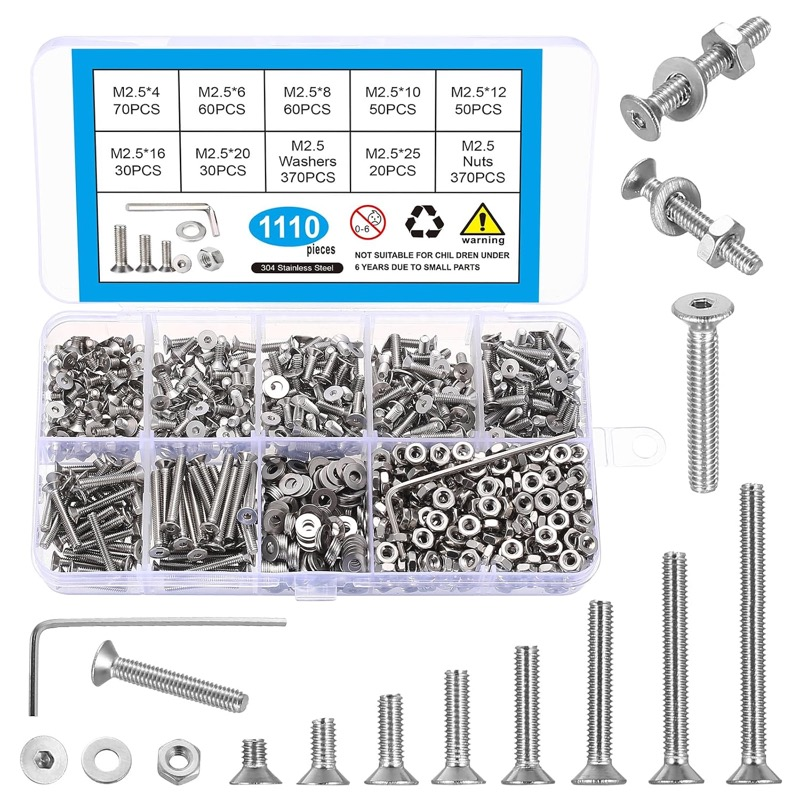
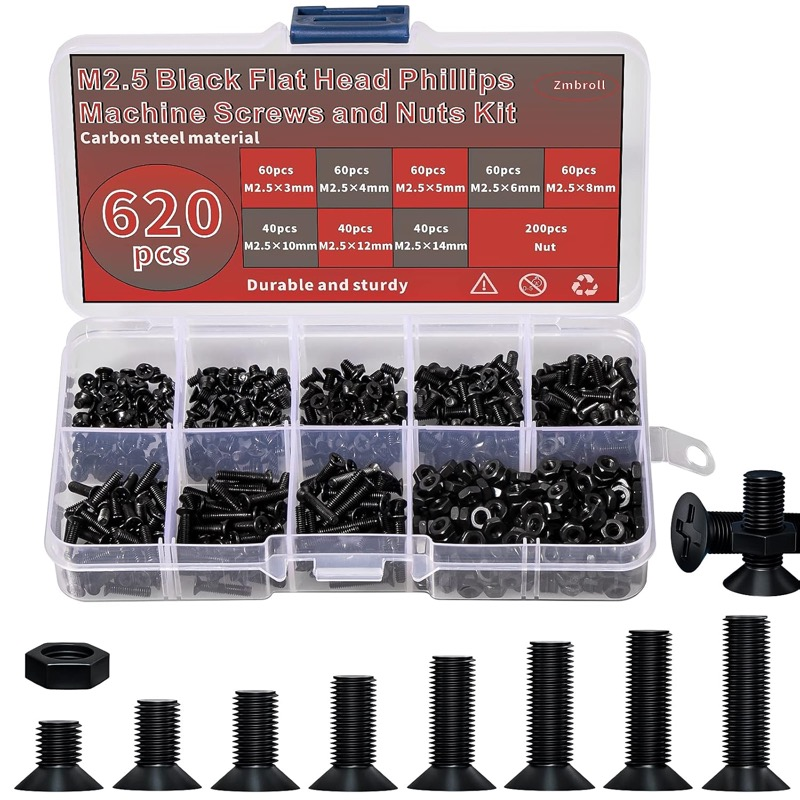
Build page: new listings, real prices, and the Osprey instead of a placeholder
Swaps requested 2026-09-04. The NanoPi moves to the free-shipping listing, the screws to a
620-piece M2.5 kit, and the magnet ring to the single-pack listing.

The antenna row was a tri-band pair I picked arbitrarily. It is now the Osprey LHCP, which
is the one actually measured in the shootout and the pocket-scanner pick, with its
trade-off stated plainly: it is a 5.6-6.0 GHz FPV antenna, not a tri-band whip, so it gives
up some 2.4 GHz and the top of 6 GHz.

Adds a cost section with per-part prices read from the listings today, and totals for the
two builds: roughly -135 with internal antennas, -165 with external. The spread is
mostly the SD card.

Every external link now opens in a new tab; internal page links deliberately do not.

diff --git a/build.html b/build.html
@@ -678,7 +678,6 @@ footer {
 
 <nav class="wcnav" aria-label="Site"><div class="wcnav-in"><a class="wcnav-brand" href="./">WLAN Commander <span>sensor</span></a><div class="wcnav-links"><a href="./">Image</a><a href="build.html" aria-current="page">Build</a><a href="antennas.html">Antennas</a></div></div></nav>
 
-
 <header class="masthead">
   <div class="shell">
     <div class="masthead-grid">
@@ -725,7 +724,7 @@ footer {
           <img class="part-thumb" src="images/nanopi-zero2.jpg" alt="NanoPi Zero2" loading="lazy" width="72" height="72">
           <span class="sum-text">
             <span class="sum-title">NanoPi Zero2</span>
-            <span class="sum-line">2 GB, no eMMC, with case</span>
+            <span class="sum-line">2 GB, no eMMC, with case &middot; $49.99, free shipping</span>
           </span>
           <span class="chip chip-ok">Required</span>
           <span class="sum-chev" aria-hidden="true">+</span>
@@ -734,8 +733,8 @@ footer {
           <div class="part-photo"><img src="images/nanopi-zero2.jpg" alt="NanoPi Zero2" loading="lazy"></div>
           <div class="part-body">
             <p class="part-note">Buy the <strong>2 GB, no eMMC, with case</strong> option. Skip the bundled Wi-Fi card and SD card: the card that ships with it is not a BE200, and you will supply your own SD.</p>
-            <dl class="spec"><div><dt>SoC</dt><dd>Rockchip RK3528A, quad-core Cortex-A53</dd></div><div><dt>Memory</dt><dd>2 GB LPDDR4X (1 GB variant also sold)</dd></div><div><dt>Expansion</dt><dd>M.2 Key E slot, PCIe</dd></div><div><dt>Network</dt><dd>Gigabit Ethernet, Realtek RTL8211F PHY</dd></div><div><dt>Power / data</dt><dd>USB-C</dd></div><div><dt>Console</dt><dd>UART header, 3.3 V, 1,500,000 baud</dd></div><div><dt>Source</dt><dd>FriendlyElec &middot; Amazon <a class="mono" href="https://www.amazon.com/dp/B0DHLF6WL5">B0DHLF6WL5</a></dd></div></dl>
-            <p class="part-links"><a href="https://www.amazon.com/dp/B0DHLF6WL5">Amazon</a> &middot; <a href="https://www.friendlyelec.com/index.php?route=product/product&amp;product_id=304">FriendlyElec</a> &middot; <a href="https://wiki.friendlyelec.com/wiki/index.php/NanoPi_Zero2">Wiki</a></p>
+            <dl class="spec"><div><dt>SoC</dt><dd>Rockchip RK3528A, quad-core Cortex-A53</dd></div><div><dt>Memory</dt><dd>2 GB LPDDR4X (1 GB variant also sold)</dd></div><div><dt>Expansion</dt><dd>M.2 Key E slot, PCIe</dd></div><div><dt>Network</dt><dd>Gigabit Ethernet, Realtek RTL8211F PHY</dd></div><div><dt>Power / data</dt><dd>USB-C</dd></div><div><dt>Console</dt><dd>UART header, 3.3 V, 1,500,000 baud</dd></div><div><dt>Price</dt><dd>$49.99, free shipping</dd></div><div><dt>Source</dt><dd>FriendlyElec &middot; Amazon <a class="mono" href="https://www.amazon.com/dp/B0DHLC9SJ3" target="_blank" rel="noopener noreferrer">B0DHLC9SJ3</a></dd></div></dl>
+            <p class="part-links"><a href="https://www.amazon.com/dp/B0DHLC9SJ3" target="_blank" rel="noopener noreferrer">Amazon</a> &middot; <a href="https://www.friendlyelec.com/index.php?route=product/product&amp;product_id=304" target="_blank" rel="noopener noreferrer">FriendlyElec</a> &middot; <a href="https://wiki.friendlyelec.com/wiki/index.php/NanoPi_Zero2" target="_blank" rel="noopener noreferrer">Wiki</a></p>
           </div>
         </div>
       </details>
@@ -753,8 +752,8 @@ footer {
           <div class="part-photo"><img src="images/intel-be200.jpg" alt="Intel BE200, non-vPro" loading="lazy"></div>
           <div class="part-body">
             <p class="part-note">The part number matters. See <a href="#be200">Get the BE200 variant right</a> before ordering &mdash; the label on the card itself reads <span class="mono">BE200NGW</span> either way, so a photo cannot tell you which variant is in the box.</p>
-            <dl class="spec"><div><dt>Intel part</dt><dd><span class="mono strong">282726</span></dd></div><div><dt>Model</dt><dd><span class="mono strong">BE200.NGWG.NV</span></dd></div><div><dt>Variant</dt><dd><strong>Non-vPro</strong>, listed as &ldquo;No vPro&rdquo;</dd></div><div><dt>Form factor</dt><dd>M.2 2230, Key E</dd></div><div><dt>Radio</dt><dd>Wi-Fi 7, 2&times;2, tri-band, plus Bluetooth</dd></div><div><dt>Max width</dt><dd>160 MHz on 5 and 6 GHz</dd></div><div><dt>Driver</dt><dd><span class="mono">iwlmld</span>, firmware core 106</dd></div><div><dt>Source</dt><dd>Amazon <a class="mono" href="https://www.amazon.com/dp/B0DFKF4T56">B0DFKF4T56</a></dd></div></dl>
-            <p class="part-links"><a href="https://www.amazon.com/dp/B0DFKF4T56">Amazon</a></p>
+            <dl class="spec"><div><dt>Intel part</dt><dd><span class="mono strong">282726</span></dd></div><div><dt>Model</dt><dd><span class="mono strong">BE200.NGWG.NV</span></dd></div><div><dt>Variant</dt><dd><strong>Non-vPro</strong>, listed as &ldquo;No vPro&rdquo;</dd></div><div><dt>Form factor</dt><dd>M.2 2230, Key E</dd></div><div><dt>Radio</dt><dd>Wi-Fi 7, 2&times;2, tri-band, plus Bluetooth</dd></div><div><dt>Max width</dt><dd>160 MHz on 5 and 6 GHz</dd></div><div><dt>Driver</dt><dd><span class="mono">iwlmld</span>, firmware core 106</dd></div><div><dt>Price</dt><dd>$23.39</dd></div><div><dt>Source</dt><dd>Amazon <a class="mono" href="https://www.amazon.com/dp/B0DFKF4T56" target="_blank" rel="noopener noreferrer">B0DFKF4T56</a></dd></div></dl>
+            <p class="part-links"><a href="https://www.amazon.com/dp/B0DFKF4T56" target="_blank" rel="noopener noreferrer">Amazon</a></p>
           </div>
         </div>
       </details>
@@ -772,27 +771,35 @@ footer {
           <div class="part-photo"><img src="images/mhf4-pigtail.jpg" alt="MHF4 to RP-SMA pigtails" loading="lazy"></div>
           <div class="part-body">
             <p class="part-note">Two needed, sold in fours. These carry the signal from the card&rsquo;s tiny MHF4 sockets out to the case.</p>
-            <dl class="spec"><div><dt>Ends</dt><dd>MHF4 (U.FL) to <strong>RP-SMA female</strong></dd></div><div><dt>Length</dt><dd>15 cm / 5.9 in</dd></div><div><dt>Impedance</dt><dd>50 &Omega;</dd></div><div><dt>Quantity</dt><dd>4 per pack</dd></div><div><dt>Fits</dt><dd>M.2 NGFF cards. <strong>Not</strong> Mini PCIe</dd></div><div><dt>Source</dt><dd>Amazon <a class="mono" href="https://www.amazon.com/dp/B07S2LYC1F">B07S2LYC1F</a></dd></div></dl>
-            <p class="part-links"><a href="https://www.amazon.com/dp/B07S2LYC1F">Amazon</a></p>
+            <dl class="spec"><div><dt>Ends</dt><dd>MHF4 (U.FL) to <strong>RP-SMA female</strong></dd></div><div><dt>Length</dt><dd>15 cm / 5.9 in</dd></div><div><dt>Impedance</dt><dd>50 &Omega;</dd></div><div><dt>Quantity</dt><dd>4 per pack</dd></div><div><dt>Fits</dt><dd>M.2 NGFF cards. <strong>Not</strong> Mini PCIe</dd></div><div><dt>Price</dt><dd>$9.99 for four</dd></div><div><dt>Source</dt><dd>Amazon <a class="mono" href="https://www.amazon.com/dp/B07S2LYC1F" target="_blank" rel="noopener noreferrer">B07S2LYC1F</a></dd></div></dl>
+            <p class="part-links"><a href="https://www.amazon.com/dp/B07S2LYC1F" target="_blank" rel="noopener noreferrer">Amazon</a></p>
           </div>
         </div>
       </details>
       <details class="part">
         <summary>
-          <img class="part-thumb" src="images/antenna.jpg" alt="Tri-band antennas, RP-SMA male" loading="lazy" width="72" height="72">
+          <img class="part-thumb" src="images/antenna.jpg" alt="Osprey LHCP antenna" loading="lazy" width="72" height="72">
           <span class="sum-text">
-            <span class="sum-title">Tri-band antennas, RP-SMA male</span>
-            <span class="sum-line">6 GHz capable &middot; eight measured, see the shootout</span>
+            <span class="sum-title">Osprey LHCP antennas</span>
+            <span class="sum-line">RP-SMA &middot; the pocket-scanner pick &middot; $19.88 for two</span>
           </span>
           <span class="chip chip-ok">Required</span>
           <span class="sum-chev" aria-hidden="true">+</span>
         </summary>
         <div class="part-detail">
-          <div class="part-photo"><img src="images/antenna.jpg" alt="Tri-band antennas, RP-SMA male" loading="lazy"></div>
+          <div class="part-photo"><img src="images/antenna.jpg" alt="Osprey LHCP antenna" loading="lazy"></div>
           <div class="part-body">
-            <p class="part-note">Two. They must cover 6 GHz and they must be <strong>RP-SMA male</strong>. Read <a href="#connector">the connector trap</a> first: this is the part of the build that has already cost us a week of bad measurements. We measured eight of them across all three bands &mdash; see the <a href="antennas.html">antenna shootout</a> before picking.</p>
-            <dl class="spec"><div><dt>Connector</dt><dd><strong>RP-SMA male</strong>, centre socket</dd></div><div><dt>Bands</dt><dd>2.4, 5 and 6 GHz (5925&ndash;7125 MHz)</dd></div><div><dt>If it lives in a pocket</dt><dd><strong>Osprey LHCP</strong> &mdash; most compact tested, and circular polarisation costs nothing on throughput</dd></div><div><dt>If it lives on a desk</dt><dd><strong>5&Prime; Oscium</strong> &mdash; best average across all three bands, no weak band</dd></div><div><dt>2.4 GHz winner</dt><dd>7&Prime; Ducky, &minus;18.0 dBm avg</dd></div><div><dt>5 GHz winner</dt><dd>Dixingtek 2&Prime;, &minus;26.7 dBm avg</dd></div><div><dt>6 GHz winner</dt><dd>7&Prime; Ducky, &minus;21.7 dBm avg</dd></div><div><dt>Gain</dt><dd>5 dBi is plenty; high gain narrows coverage</dd></div></dl>
-            <p class="part-links"><a href="https://www.amazon.com/Antenna-Tri-Band-Omnidirectional-Antennas-Desktop/dp/B0CJDWDNL1">Tri-band 5 dBi pair</a> &middot; <a href="antennas.html">Antenna shootout &rarr;</a></p>
+            <p class="part-note">Two, and this is the one we actually measured rather than guessed at.
+            Across <a href="antennas.html">eight antennas swept on all three bands</a> the Osprey was
+            the most compact tested, and circular polarisation cost nothing on throughput &mdash; it
+            even out-ran the larger Dixingtek on 5 GHz. Read <a href="#connector">the connector
+            trap</a> before ordering any alternative.</p>
+            <p class="part-note"><strong>Know what you are trading.</strong> This is a 5.8 GHz FPV
+            antenna, roughly 5.6&ndash;6.0 GHz, not a tri-band whip. It gives up some 2.4 GHz and it is
+            not tuned for the top of 6 GHz. That is the price of something that genuinely pockets; if
+            the sensor lives on a desk, the 5&Prime; Oscium was the stronger all-rounder.</p>
+            <dl class="spec"><div><dt>Connector</dt><dd><strong>RP-SMA</strong>, mates with the pigtails above</dd></div><div><dt>Polarisation</dt><dd>LHCP, circular</dd></div><div><dt>Band</dt><dd>5.6&ndash;6.0 GHz</dd></div><div><dt>Gain</dt><dd>2.82 dBi</dd></div><div><dt>Size</dt><dd>Stubby, 14.1 mm diameter &times; 14 mm</dd></div><div><dt>Quantity</dt><dd>2 per pack</dd></div><div><dt>Price</dt><dd>$19.88</dd></div><div><dt>Source</dt><dd>Amazon <a class="mono" href="https://www.amazon.com/dp/B0BM99SJCP" target="_blank" rel="noopener noreferrer">B0BM99SJCP</a></dd></div></dl>
+            <p class="part-links"><a href="https://www.amazon.com/dp/B0BM99SJCP" target="_blank" rel="noopener noreferrer">Amazon</a> &middot; <a href="antennas.html">How it compared &rarr;</a></p>
           </div>
         </div>
       </details>
@@ -801,7 +808,7 @@ footer {
           <img class="part-thumb" src="images/screws.jpg" alt="M2.5 screw assortment" loading="lazy" width="72" height="72">
           <span class="sum-text">
             <span class="sum-title">M2.5 screw assortment</span>
-            <span class="sum-line">M.2 retaining screw is M2.5</span>
+            <span class="sum-line">M.2 retaining screw is M2.5 &middot; $9.99</span>
           </span>
           <span class="chip chip-ok">Required</span>
           <span class="sum-chev" aria-hidden="true">+</span>
@@ -812,8 +819,8 @@ footer {
             <p class="part-note">The M.2 card is held down by a single small screw, and the M.2
             standard specifies <strong>M2.5</strong>. An assortment is worth having because that screw
             is easy to lose and impossible to improvise.</p>
-            <dl class="spec"><div><dt>Thread</dt><dd><strong>M2.5</strong>, the M.2 retaining size</dd></div><div><dt>Material</dt><dd>304 stainless steel</dd></div><div><dt>Head</dt><dd>Countersunk, hex socket</dd></div><div><dt>Contents</dt><dd>1110 pieces, with nuts, washers and a hex key</dd></div><div><dt>Source</dt><dd>Amazon <a class="mono" href="https://www.amazon.com/dp/B0GFDJNTRX">B0GFDJNTRX</a></dd></div></dl>
-            <p class="part-links"><a href="https://www.amazon.com/dp/B0GFDJNTRX">Amazon</a></p>
+            <dl class="spec"><div><dt>Thread</dt><dd><strong>M2.5</strong>, the M.2 retaining size</dd></div><div><dt>Sizes</dt><dd>M2.5 &times; 3/4/5/6/8/10/12/16/20 mm</dd></div><div><dt>Head</dt><dd>Flat head, Phillips</dd></div><div><dt>Contents</dt><dd>620 pieces, flat head Phillips, with nuts and washers</dd></div><div><dt>Price</dt><dd>$9.99</dd></div><div><dt>Source</dt><dd>Amazon <a class="mono" href="https://www.amazon.com/dp/B0B3J58MMW" target="_blank" rel="noopener noreferrer">B0B3J58MMW</a></dd></div></dl>
+            <p class="part-links"><a href="https://www.amazon.com/dp/B0B3J58MMW" target="_blank" rel="noopener noreferrer">Amazon</a></p>
           </div>
         </div>
       </details>
@@ -831,8 +838,8 @@ footer {
           <div class="part-photo"><img src="images/sdcard.jpg" alt="microSD card" loading="lazy"></div>
           <div class="part-body">
             <p class="part-note">Any size from 8 GB up. The image expands to fill the card on first boot, so buy for capture headroom, not for the image. Buy A2 and V30 for headroom, and see <a href="#sdcard">what a running sensor actually uses</a> for the measurements.</p>
-            <dl class="spec"><div><dt>Minimum</dt><dd>A2 and V30, so 30 MB/s sustained write</dd></div><div><dt>Known good</dt><dd>SanDisk Extreme microSDXC &mdash; C10, U3, V30, A2 <a class="mono" href="https://www.amazon.com/dp/B07FCMKK5X">B07FCMKK5X</a></dd></div><div><dt>Size</dt><dd>32&ndash;64 GB is a sensible middle</dd></div><div><dt>Endurance</dt><dd>&ldquo;High endurance&rdquo; is a nice-to-have, not required</dd></div><div><dt>Before trusting it</dt><dd>Benchmark the write speed. A card can read perfectly and write at a crawl</dd></div><div><dt>Note</dt><dd>The cheaper SanDisk <em>Ultra</em> line is A1/U1. The stock card in our build managed 12 MB/s regardless</dd></div></dl>
-            <p class="part-links"><a href="https://www.amazon.com/dp/B07FCMKK5X">SanDisk Extreme on Amazon</a></p>
+            <dl class="spec"><div><dt>Minimum</dt><dd>A2 and V30, so 30 MB/s sustained write</dd></div><div><dt>Known good</dt><dd>SanDisk Extreme microSDXC &mdash; C10, U3, V30, A2 <a class="mono" href="https://www.amazon.com/dp/B07FCMKK5X" target="_blank" rel="noopener noreferrer">B07FCMKK5X</a></dd></div><div><dt>Price</dt><dd>$12 for 32 GB up to $44.59 for the 128 GB Extreme</dd></div><div><dt>Size</dt><dd>32&ndash;64 GB is a sensible middle</dd></div><div><dt>Endurance</dt><dd>&ldquo;High endurance&rdquo; is a nice-to-have, not required</dd></div><div><dt>Before trusting it</dt><dd>Benchmark the write speed. A card can read perfectly and write at a crawl</dd></div><div><dt>Note</dt><dd>The cheaper SanDisk <em>Ultra</em> line is A1/U1. The stock card in our build managed 12 MB/s regardless</dd></div></dl>
+            <p class="part-links"><a href="https://www.amazon.com/dp/B07FCMKK5X" target="_blank" rel="noopener noreferrer">SanDisk Extreme on Amazon</a></p>
           </div>
         </div>
       </details>
@@ -861,8 +868,8 @@ footer {
           <div class="part-photo"><img src="images/thermal-pad.jpg" alt="0.5 mm thermal pad" loading="lazy"></div>
           <div class="part-body">
             <p class="part-note">The case already ships with a pad, so this is not something the build needs to work &mdash; the stock one is just thin and cheap. Orb is firm that <em>a</em> pad is required: &ldquo;the card needs the pad to transfer heat to the case and run reliably.&rdquo; Replacing it with a decent 0.5 mm pad is a cheap upgrade, and it matters more here than on most boards because mainline has no thermal zone for this SoC, so nothing throttles on your behalf.</p>
-            <dl class="spec"><div><dt>Product</dt><dd>ARCTIC TP-3</dd></div><div><dt>Thickness</dt><dd><strong>0.5 mm</strong>, matching the stock pad</dd></div><div><dt>Sheet</dt><dd>120 &times; 20 mm, 4 per pack</dd></div><div><dt>Do not go thicker</dt><dd>Too thick stops the case closing flat and makes contact worse</dd></div><div><dt>Source</dt><dd>Amazon <a class="mono" href="https://www.amazon.com/dp/B09V518BXM">B09V518BXM</a></dd></div></dl>
-            <p class="part-links"><a href="https://www.amazon.com/dp/B09V518BXM">Amazon</a></p>
+            <dl class="spec"><div><dt>Product</dt><dd>ARCTIC TP-3</dd></div><div><dt>Thickness</dt><dd><strong>0.5 mm</strong>, matching the stock pad</dd></div><div><dt>Sheet</dt><dd>120 &times; 20 mm, 4 per pack</dd></div><div><dt>Do not go thicker</dt><dd>Too thick stops the case closing flat and makes contact worse</dd></div><div><dt>Price</dt><dd>$7.49</dd></div><div><dt>Source</dt><dd>Amazon <a class="mono" href="https://www.amazon.com/dp/B09V518BXM" target="_blank" rel="noopener noreferrer">B09V518BXM</a></dd></div></dl>
+            <p class="part-links"><a href="https://www.amazon.com/dp/B09V518BXM" target="_blank" rel="noopener noreferrer">Amazon</a></p>
           </div>
         </div>
       </details>
@@ -880,8 +887,8 @@ footer {
           <div class="part-photo"><img src="images/usbc-cable.jpg" alt="Short right-angle USB-C cable" loading="lazy"></div>
           <div class="part-body">
             <p class="part-note">Powers the sensor and carries the network link at the same time. Plug it into a laptop or phone and the sensor appears at <span class="mono">198.18.42.1</span> with no ethernet involved. The right angle keeps it from levering on the port in a bag.</p>
-            <dl class="spec"><div><dt>Product</dt><dd>JUXINICE 90&deg; USB-C male to male</dd></div><div><dt>Length</dt><dd>10 cm / 4 in, flat and pliable</dd></div><div><dt>Quantity</dt><dd>2 per pack</dd></div><div><dt>Source</dt><dd>Amazon <a class="mono" href="https://www.amazon.com/dp/B0CSW84W7J">B0CSW84W7J</a></dd></div></dl>
-            <p class="part-links"><a href="https://www.amazon.com/dp/B0CSW84W7J">Amazon</a></p>
+            <dl class="spec"><div><dt>Product</dt><dd>JUXINICE 90&deg; USB-C male to male</dd></div><div><dt>Length</dt><dd>10 cm / 4 in, flat and pliable</dd></div><div><dt>Quantity</dt><dd>2 per pack</dd></div><div><dt>Price</dt><dd>$9.99 for two</dd></div><div><dt>Source</dt><dd>Amazon <a class="mono" href="https://www.amazon.com/dp/B0CSW84W7J" target="_blank" rel="noopener noreferrer">B0CSW84W7J</a></dd></div></dl>
+            <p class="part-links"><a href="https://www.amazon.com/dp/B0CSW84W7J" target="_blank" rel="noopener noreferrer">Amazon</a></p>
           </div>
         </div>
       </details>
@@ -890,7 +897,7 @@ footer {
           <img class="part-thumb" src="images/magnet-ring.jpg" alt="MagSafe magnet rings" loading="lazy" width="72" height="72">
           <span class="sum-text">
             <span class="sum-title">MagSafe magnet rings</span>
-            <span class="sum-line">53.9 mm outer &middot; 2.6 mm thick</span>
+            <span class="sum-line">53.9 mm outer &middot; 2.6 mm thick &middot; $7.99</span>
           </span>
           <span class="chip chip-untested">Optional</span>
           <span class="sum-chev" aria-hidden="true">+</span>
@@ -899,8 +906,8 @@ footer {
           <div class="part-photo"><img src="images/magnet-ring.jpg" alt="MagSafe magnet rings" loading="lazy"></div>
           <div class="part-body">
             <p class="part-note">For sticking the finished sensor to something steel, or to a 3D-printed mount. Sold for DIY and print-in projects rather than as a phone accessory.</p>
-            <dl class="spec"><div><dt>Type</dt><dd>Magnet ring, MagSafe-compatible</dd></div><div><dt>Outer &oslash;</dt><dd>53.9 mm / 2.12 in</dd></div><div><dt>Inner &oslash;</dt><dd>45.8 mm / 1.80 in</dd></div><div><dt>Thickness</dt><dd>2.6 mm / 0.10 in</dd></div><div><dt>Quantity</dt><dd>2 per pack</dd></div><div><dt>Intended use</dt><dd>DIY and 3D printing, accessory side</dd></div><div><dt>Source</dt><dd>Amazon <a class="mono" href="https://www.amazon.com/dp/B0GYSGWTKV">B0GYSGWTKV</a></dd></div></dl>
-            <p class="part-links"><a href="https://www.amazon.com/dp/B0GYSGWTKV">Amazon</a></p>
+            <dl class="spec"><div><dt>Type</dt><dd>Magnet ring, MagSafe-compatible</dd></div><div><dt>Outer &oslash;</dt><dd>53.9 mm / 2.12 in</dd></div><div><dt>Inner &oslash;</dt><dd>45.8 mm / 1.80 in</dd></div><div><dt>Thickness</dt><dd>2.6 mm / 0.10 in</dd></div><div><dt>Price</dt><dd>$7.99</dd></div><div><dt>Intended use</dt><dd>DIY and 3D printing, accessory side</dd></div><div><dt>Source</dt><dd>Amazon <a class="mono" href="https://www.amazon.com/dp/B0GGNLD59P" target="_blank" rel="noopener noreferrer">B0GGNLD59P</a></dd></div></dl>
+            <p class="part-links"><a href="https://www.amazon.com/dp/B0GGNLD59P" target="_blank" rel="noopener noreferrer">Amazon</a></p>
           </div>
         </div>
       </details>
@@ -919,11 +926,63 @@ footer {
           <div class="part-body">
             <p class="part-note">Only needed if you want to watch the board boot, or recover one that will not come up on the network. <strong>Do not buy a cheap CP2102</strong> for this board &mdash; see <a href="#uart">the console runs at 1.5 Mbaud</a>.</p>
             <dl class="spec"><div><dt>Recommended</dt><dd>FTDI TTL-232R-3V3</dd></div><div><dt>Chip</dt><dd>FT232R, 300 baud to <strong>3 Mbaud</strong></dd></div><div><dt>Logic level</dt><dd>3.3 V signals</dd></div><div><dt>Wire colours</dt><dd>Documented by FTDI: black GND, orange TX, yellow RX, red +5 V</dd></div><div><dt>Connect</dt><dd>GND, TX, RX only. <strong>Leave red disconnected</strong></dd></div></dl>
-            <p class="part-links"><a href="https://ftdichip.com/products/ttl-232r-3v3/">FTDI</a></p>
+            <p class="part-links"><a href="https://ftdichip.com/products/ttl-232r-3v3/" target="_blank" rel="noopener noreferrer">FTDI</a></p>
           </div>
         </div>
       </details>
     </div>
+  </section>
+
+  <!-- ================= COST ================= -->
+  <section id="cost">
+    <div class="sec-head">
+      <h2>What it costs</h2>
+      <div class="eyebrow">prices checked 2026-09-04</div>
+    </div>
+    <div class="prose">
+      <p>
+        Two builds, depending on whether the antennas live inside the case or screw onto the
+        outside. Everything above the antennas is identical.
+      </p>
+    </div>
+
+    <div class="tablewrap">
+      <table>
+        <thead><tr><th>Part</th><th>Price</th><th>Internal</th><th>External</th></tr></thead>
+        <tbody>
+          <tr><td>NanoPi Zero2, 2 GB, case</td><td class="mono">$49.99</td><td>&bull;</td><td>&bull;</td></tr>
+          <tr><td>Intel BE200, non-vPro</td><td class="mono">$23.39</td><td>&bull;</td><td>&bull;</td></tr>
+          <tr><td>microSD</td><td class="mono">$12&ndash;$44.59</td><td>&bull;</td><td>&bull;</td></tr>
+          <tr><td>M2.5 screw kit</td><td class="mono">$9.99</td><td>&bull;</td><td>&bull;</td></tr>
+          <tr><td>Thermal pad, optional upgrade</td><td class="mono">$7.49</td><td>&bull;</td><td>&bull;</td></tr>
+          <tr><td>MHF4 to RP-SMA pigtails</td><td class="mono">$9.99</td><td></td><td>&bull;</td></tr>
+          <tr><td>Osprey LHCP antennas</td><td class="mono">$19.88</td><td></td><td>&bull;</td></tr>
+        </tbody>
+      </table>
+    </div>
+
+    <div class="callout">
+      <div class="callout-label">Estimated total</div>
+      <p>
+        <strong>Internal antennas: roughly $95 to $135.</strong> The spread is almost entirely the
+        SD card &mdash; a 32 GB A2 card at the bottom, the 128 GB SanDisk Extreme at the top &mdash;
+        plus the optional thermal pad.
+      </p>
+      <p>
+        <strong>External antennas: roughly $125 to $165.</strong> The same build plus pigtails and a
+        pair of Osprey antennas, which together add about $30.
+      </p>
+      <p>
+        Prices exclude tax and were read from the listings on 4 September 2026. They move; the part
+        numbers do not, which is why those are what this page is really for.
+      </p>
+    </div>
+
+    <p class="caption">
+      The internal build assumes the antennas mount inside the case rather than on external
+      connectors. If you are fitting adhesive MHF4 flex antennas instead of the pigtail-and-Osprey
+      pair, budget for those separately &mdash; they are not listed above.
+    </p>
   </section>
 
   <!-- ================= BE200 ================= -->
@@ -1250,7 +1309,7 @@ screen /dev/cu.usbserial-XXXX 1500000</pre>
       <div>
         <div class="eyebrow">Credit</div>
         <p>Thermal pad requirement and the case build come from
-        <a href="https://orb.net/docs/sensorbox/nanopi-zero2">Orb's own NanoPi Zero2 guide</a>.</p>
+        <a href="https://orb.net/docs/sensorbox/nanopi-zero2" target="_blank" rel="noopener noreferrer">Orb's own NanoPi Zero2 guide</a>.</p>
       </div>
       <div>
         <div class="eyebrow">Prices</div>
